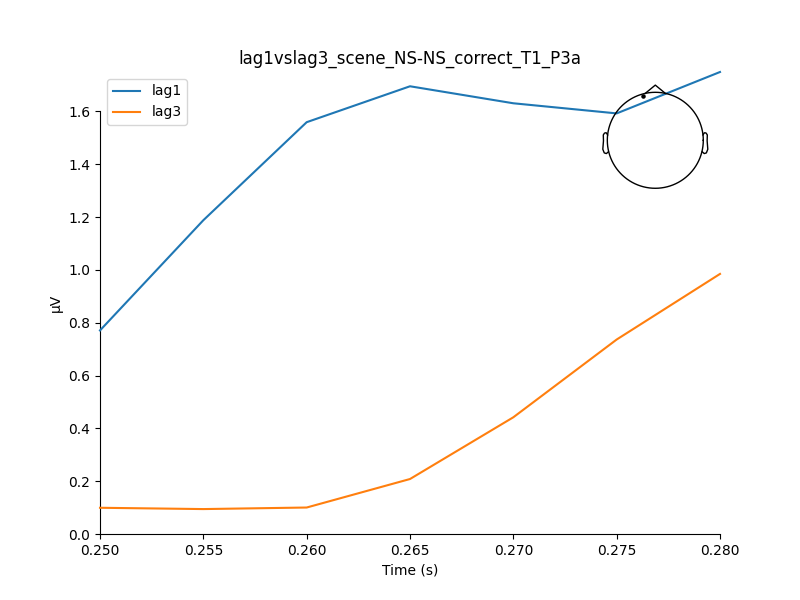
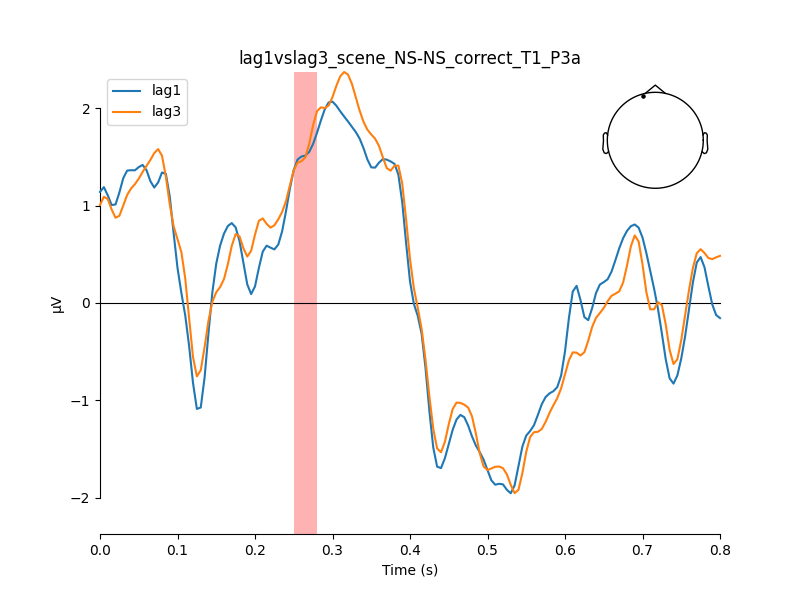
expanded evokeds plots to show full time window.

diff --git a/analysis.py b/analysis.py
@@ -68,6 +68,9 @@ class BaseAnalysis:
             if save:
                 anim.save(Path(self.analysis_db, 'figs', 'topo', f'topo_{title}.gif'))
 
+    def update_events(self):
+        self.epochs.events
+
 
 class Group(BaseAnalysis):
     def __init__(self, analysis_db, data_db, individual_list):
@@ -200,7 +203,7 @@ class Statistics:
             self.data.window_peak(tmin=component.start, tmax=component.end)
             return data.peaks
         elif type == 'grand':
-            self.data.evokeds_to_grand_evoked(tmin=component.start, tmax=component.end)
+            self.data.evokeds_to_grand_evoked(tmin=0, tmax=None)
             return data.grand_evoked
 
     def compute(self, func=stats.ttest_rel, type='mean', plotting=False):
@@ -231,10 +234,12 @@ class Statistics:
 
                     self.dict_list.append(row)
                     if plotting:
-                        title = f"{comparison[0]}vs{comparison[1]}_{combination.replace('/','_')}_{component.name}"
-                        fig = mne.viz.plot_compare_evokeds(grand, title=title, show=False)[0]
-                        fig.savefig(fname=title)
-                        fig.close()
+                        title = f"{comparison[0]}vs{comparison[1]}_{combination.replace('/', '_')}_{component.name}"
+                        fig = mne.viz.plot_compare_evokeds(grand, title=title, show=False, show_sensors=True)[0]
+                        fig.axes[0].axvspan(component.start, component.end, facecolor='r', alpha=0.3,
+                                            label=component.name)
+                        fig.savefig(fname=Path('figures', 'windows', title))
+                        plt.close()
 
     def save_output(self, filename):
         df = pd.DataFrame(self.dict_list)
@@ -288,6 +293,7 @@ class Statistics:
 if '__main__' in __name__:
     wd = Path(
         '/Volumes/psgroups/AttentionPerceptionLab/AttentionPerceptionLabStudent/PROJECTS/EEG-ATTENTIONAL BLINK')
+    assert wd.exists()
     data_db = Path(wd, 'MNE_preprocessing_db')
     analysis_db = Path(wd, 'MNE_analysis_db')
 
@@ -321,6 +327,7 @@ if '__main__' in __name__:
 
     data = Group(analysis_db=analysis_db, data_db=data_db, individual_list=individual_list)
     data.load_epochs()
+    data.update_events()
 
     # Comparisons 1 & 2
     event_conditions = {
@@ -333,7 +340,7 @@ if '__main__' in __name__:
     components = [P3a, P3b]
 
     analysis = Statistics(data=data, main_comp=main_comparisons, event_cond=event_conditions, components=components)
-    analysis.compute(analysis.bootstrap_paired_t_test, type='mean', plotting=True)
+    analysis.compute(analysis.bootstrap_paired_t_test, type='mean', plotting=False)
 
     # Comparisons 3
     event_conditions = {
@@ -342,10 +349,10 @@ if '__main__' in __name__:
         'time': ['T2'],
         'lag': ['lag1', 'lag3']
     }
-    main_comparisons = [['S-S', 'NS-S'], ['NS-S', 'S-NS']]
+    main_comparisons = [['S-S', 'NS-S'], ['NS-S', 'S-NS'], ['NS-NS', 'S-NS']]
 
     analysis.set_conditions(main_comp=main_comparisons, event_cond=event_conditions, components=components)
-    analysis.compute(analysis.bootstrap_paired_t_test, type="mean", plotting=True)
+    analysis.compute(analysis.bootstrap_paired_t_test, type="mean", plotting=False)
 
     # Comparisons 4 & 5
     event_conditions = {
@@ -356,6 +363,6 @@ if '__main__' in __name__:
     }
     main_comparisons = [['lag1', 'lag3']]
     analysis.set_conditions(main_comp=main_comparisons, event_cond=event_conditions, components=components)
-    analysis.compute(analysis.bootstrap_paired_t_test, type="mean", plotting=True)
+    analysis.compute(analysis.bootstrap_paired_t_test, type="mean", plotting=False)
 
     analysis.save_output('bootstraps_mean')

diff --git a/preprocesser.py b/preprocesser.py
@@ -502,6 +502,6 @@ if '__main__' in __name__:
                            event_ids=event_ids,
                            montage=ANTwave64)
 
-    study.read_RAWs(skip_existing=True)
+    # study.read_RAWs(skip_existing=True)
     study.preprocess_RAWs(tmin=-0.2, bmax=0, tmax=0.8, additional_events_fname='new_markers', plotting=False,
-                          skip_existing=True)
+                          skip_existing=False)
